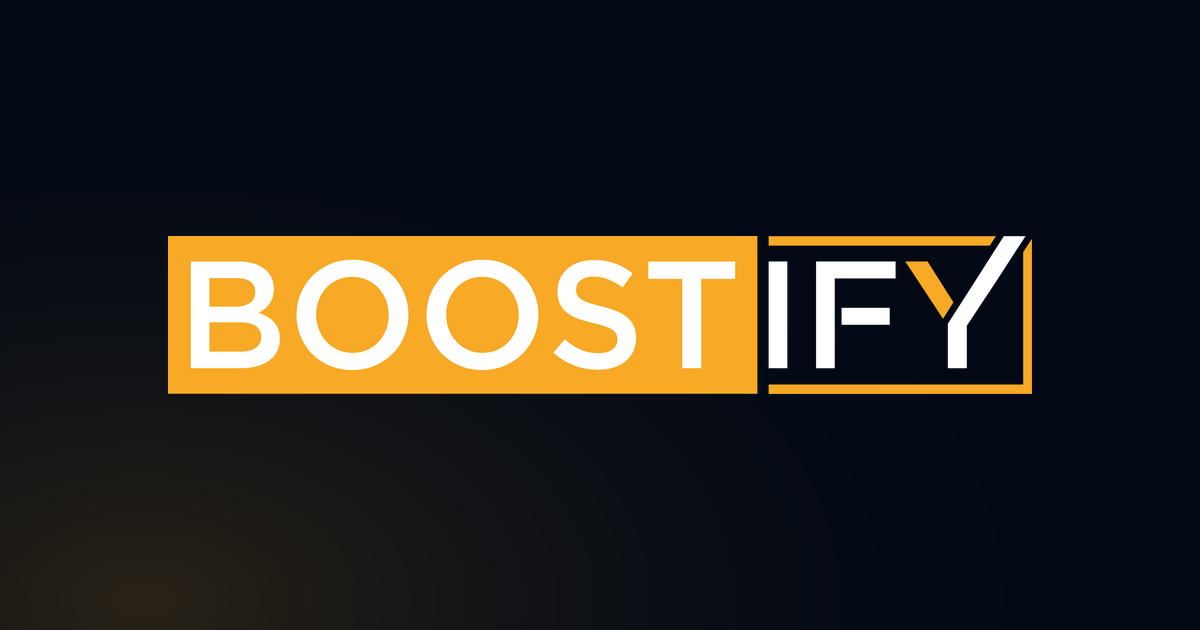
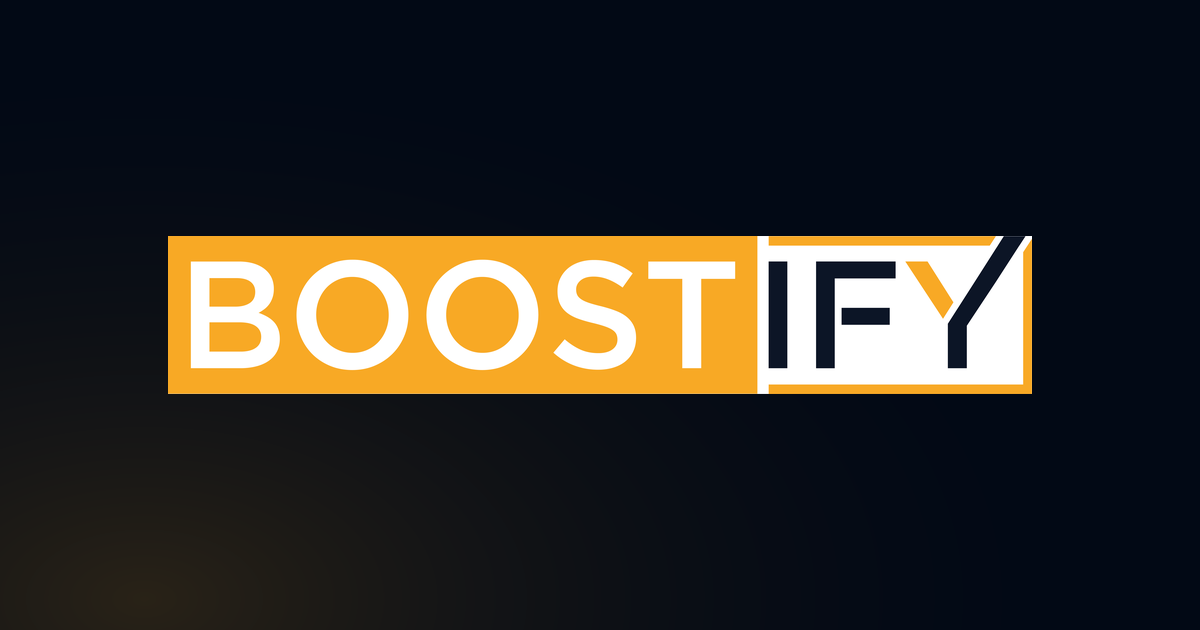
ui change

Changed region(s): [[0.6167, 0.3619, 0.8633, 0.6333]]

diff --git a/src/components/footer/Footer.tsx b/src/components/footer/Footer.tsx
@@ -4,6 +4,7 @@ import Box from '@mui/material/Box';
 import Container from '@mui/material/Container';
 import Grid from '@mui/material/Grid';
 import IconButton from '@mui/material/IconButton';
+import Image from 'next/image';
 import Link from '@mui/material/Link';
 import NextLink from 'next/link';
 import Stack from '@mui/material/Stack';
@@ -14,7 +15,6 @@ import InstagramIcon from '@mui/icons-material/Instagram';
 import LinkedInIcon from '@mui/icons-material/LinkedIn';
 
 import Copyright from '@/components/footer/Copyright';
-import ThemedImage from '@/components/common/ThemedImage';
 import { DARK_SELECTOR } from '@/cssSelectors';
 import { services } from '@/services';
 import { socialLinks } from '@/socialLinks';
@@ -80,9 +80,8 @@ export default function Footer() {
                 '& img': { display: 'block', width: 176, height: 'auto' },
               }}
             >
-              <ThemedImage
-                lightSrc="/assets/brand/boostify-logo-light.webp"
-                darkSrc="/assets/brand/boostify-logo-dark.webp"
+              <Image
+                src="/assets/brand/boostify-logo.webp"
                 alt="Boostify"
                 width={176}
                 height={32}

diff --git a/src/app/layout.tsx b/src/app/layout.tsx
@@ -9,6 +9,7 @@ import InitColorSchemeScript from '@mui/material/InitColorSchemeScript';
 import theme from '@/theme';
 import AppShell from '@/app/AppShell';
 import ThemeProvider from '@/contexts/ThemeContext';
+import { ogImages, twitterImages } from '@/seo';
 
 export const metadata: Metadata = {
   metadataBase: new URL('https://boostify.lk'),
@@ -48,21 +49,14 @@ export const metadata: Metadata = {
     title: 'Boostify - Digital Transformation Partner',
     description:
       'Boostify combines technology, strategy, and creative excellence to help ambitious businesses grow faster online.',
-    images: [
-      {
-        url: '/assets/brand/boostify-og.png',
-        width: 1200,
-        height: 630,
-        alt: 'Boostify Logo',
-      },
-    ],
+    images: ogImages,
   },
   twitter: {
     card: 'summary_large_image',
     title: 'Boostify - Digital Transformation Partner',
     description:
       'Boostify combines technology, strategy, and creative excellence to help ambitious businesses grow faster online.',
-    images: ['/assets/brand/boostify-og.png'],
+    images: twitterImages,
   },
   robots: {
     index: true,

diff --git a/src/app/(home)/page.tsx b/src/app/(home)/page.tsx
@@ -8,6 +8,7 @@ import ClientsSection from '@/app/(home)/ClientsSection';
 import WhyChooseUsSection from '@/app/(home)/WhyChooseUsSection';
 import CtaSection from '@/components/common/CtaSection';
 import { socialLinks } from '@/socialLinks';
+import { ogImages, organizationLogo } from '@/seo';
 
 export const metadata: Metadata = {
   description:
@@ -18,6 +19,7 @@ export const metadata: Metadata = {
     description:
       "Boostify is Sri Lanka's trusted digital and AI transformation partner, helping ambitious businesses grow faster and lead confidently with technology, strategy, and creative excellence.",
     url: 'https://boostify.lk',
+    images: ogImages,
   },
   alternates: {
     canonical: 'https://boostify.lk',
@@ -31,7 +33,7 @@ function Home() {
     '@type': 'Organization',
     name: 'Boostify',
     url: 'https://boostify.lk',
-    logo: 'https://boostify.lk/assets/brand/boostify-logo-light.png',
+    logo: organizationLogo,
     description:
       "Sri Lanka's digital and AI transformation partner, combining technology, strategy, and creative excellence for ambitious businesses.",
     areaServed: 'LK',

diff --git a/src/components/navBar/NavBar.tsx b/src/components/navBar/NavBar.tsx
@@ -12,12 +12,12 @@ import Divider from '@mui/material/Divider';
 import Drawer from '@mui/material/Drawer';
 import IconButton from '@mui/material/IconButton';
 import MenuItem from '@mui/material/MenuItem';
+import Image from 'next/image';
 import MenuIcon from '@mui/icons-material/Menu';
 import NextLink from 'next/link';
 import { usePathname } from 'next/navigation';
 
 import ColorModeToggle from '@/components/navBar/ColorModeToggle';
-import ThemedImage from '@/components/common/ThemedImage';
 import useNavLineHandoff from '@/hooks/useNavLineHandoff';
 import { DARK_SELECTOR, NAV_LINE_ATTR } from '@/cssSelectors';
 
@@ -90,9 +90,8 @@ export default function NavBar() {
               '& img': { display: 'block', width: { xs: 148, sm: 176 }, height: 'auto' },
             }}
           >
-            <ThemedImage
-              lightSrc="/assets/brand/boostify-logo-light.webp"
-              darkSrc="/assets/brand/boostify-logo-dark.webp"
+            <Image
+              src="/assets/brand/boostify-logo.webp"
               alt="Boostify"
               width={176}
               height={32}

diff --git a/src/app/about/page.tsx b/src/app/about/page.tsx
@@ -7,6 +7,7 @@ import DirectorsSection from '@/app/about/DirectorsSection';
 import ExpertiseSection from '@/app/about/ExpertiseSection';
 import IndustriesSection from '@/app/about/IndustriesSection';
 import CtaSection from '@/components/common/CtaSection';
+import { ogImages, organizationLogo } from '@/seo';
 
 export const metadata: Metadata = {
   title: 'About',
@@ -15,6 +16,7 @@ export const metadata: Metadata = {
     title: 'About | Boostify',
     description: 'We help businesses grow, connect, and succeed in the digital world.',
     url: 'https://boostify.lk/about',
+    images: ogImages,
   },
   alternates: {
     canonical: 'https://boostify.lk/about',
@@ -30,7 +32,7 @@ export default function About() {
       '@type': 'Organization',
       name: 'Boostify',
       url: 'https://boostify.lk',
-      logo: 'https://boostify.lk/assets/brand/boostify-logo-light.png',
+      logo: organizationLogo,
       description: 'Digital marketing agency combining technology, strategy, and creative excellence for ambitious businesses.',
       areaServed: 'LK',
       knowsAbout: [

diff --git a/src/app/contact/page.tsx b/src/app/contact/page.tsx
@@ -23,6 +23,7 @@ import ContactForm from '@/app/contact/ContactForm';
 import ScrollReveal from '@/components/common/ScrollReveal';
 import { DARK_SELECTOR } from '@/cssSelectors';
 import { socialLinks } from '@/socialLinks';
+import { ogImages, organizationLogo } from '@/seo';
 
 export const metadata: Metadata = {
   title: 'Contact',
@@ -31,6 +32,7 @@ export const metadata: Metadata = {
     title: 'Contact | Boostify',
     description: 'Ready to boost your digital presence? Get in touch with us today.',
     url: 'https://boostify.lk/contact',
+    images: ogImages,
   },
   alternates: {
     canonical: 'https://boostify.lk/contact',
@@ -59,7 +61,7 @@ export default function Contact() {
       '@type': 'Organization',
       name: 'Boostify',
       url: 'https://boostify.lk',
-      logo: 'https://boostify.lk/assets/brand/boostify-logo-light.png',
+      logo: organizationLogo,
       contactPoint: {
         '@type': 'ContactPoint',
         telephone: '+94713598928',

diff --git a/src/app/news/page.tsx b/src/app/news/page.tsx
@@ -5,6 +5,7 @@ import PageHero from '@/components/common/PageHero';
 import NewsSection from '@/app/news/NewsSection';
 import NewsSectionFallback from '@/app/news/NewsSectionFallback';
 import CtaSection from '@/components/common/CtaSection';
+import { ogImages } from '@/seo';
 
 export const metadata: Metadata = {
   title: 'News',
@@ -13,6 +14,7 @@ export const metadata: Metadata = {
     title: 'News | Boostify',
     description: 'The latest news, updates, and insights from the industry.',
     url: 'https://boostify.lk/news',
+    images: ogImages,
   },
   alternates: {
     canonical: 'https://boostify.lk/news',

diff --git a/src/seo.ts b/src/seo.ts
@@ -1,0 +1,12 @@
+export const ogImages = [
+  {
+    url: '/assets/brand/boostify-og.png',
+    width: 1200,
+    height: 630,
+    alt: 'Boostify',
+  },
+];
+
+export const twitterImages = ['/assets/brand/boostify-og.png'];
+
+export const organizationLogo = 'https://boostify.lk/assets/brand/boostify-logo.png';
